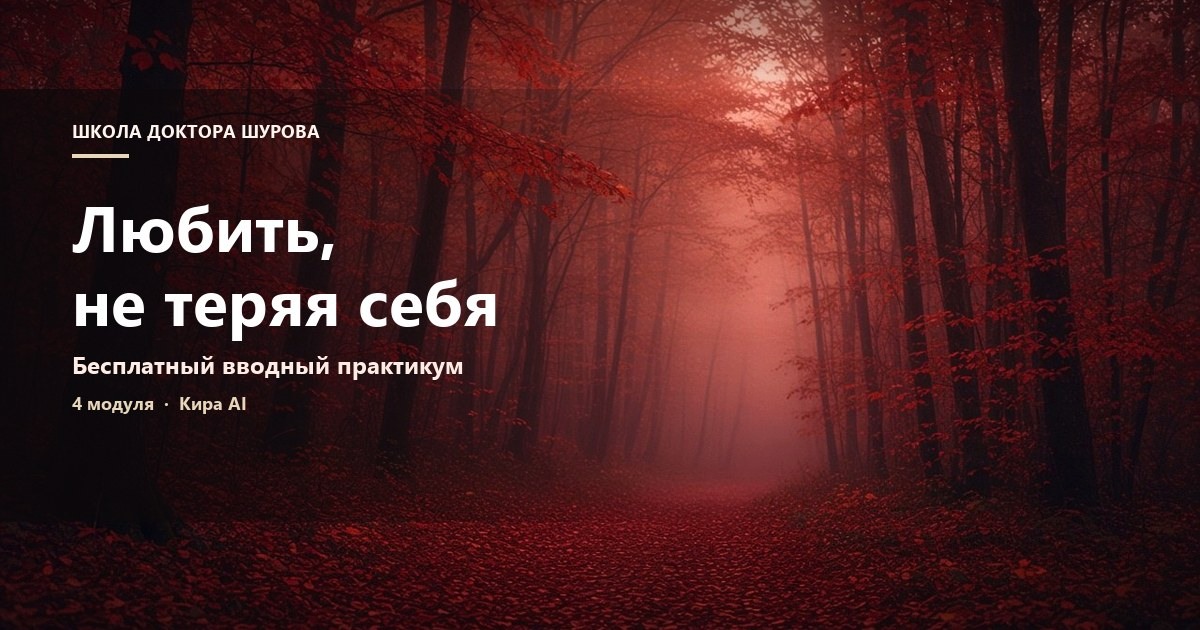
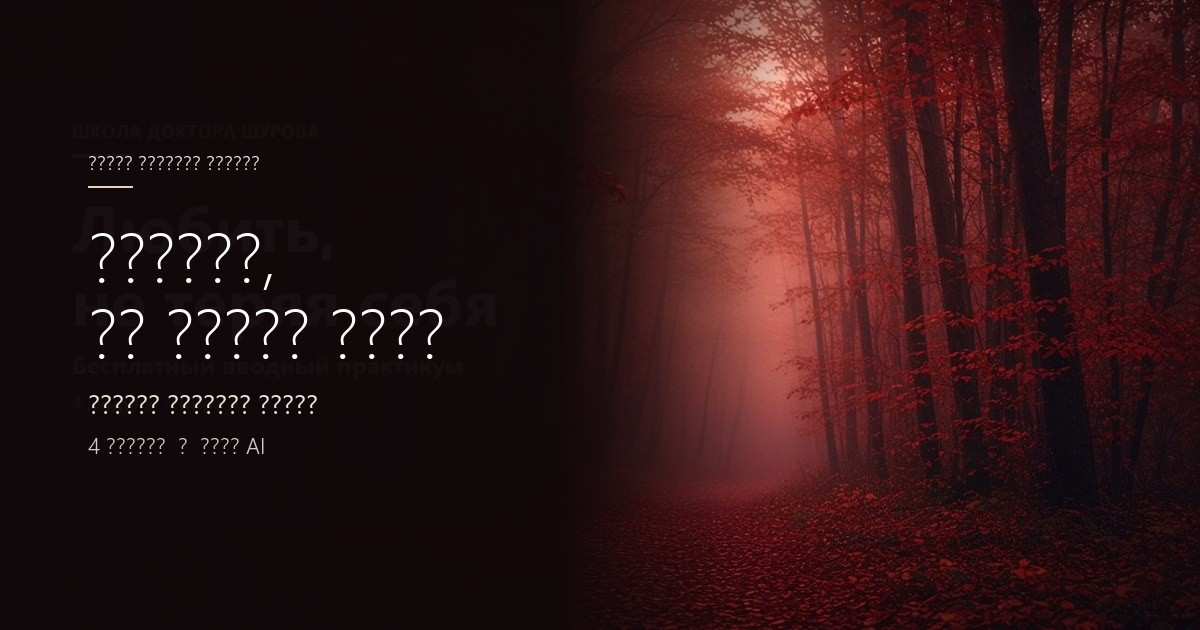
Drop the free-practicum line from the share preview card

diff --git a/index.html b/index.html
@@ -12,24 +12,24 @@
   <meta name="apple-mobile-web-app-status-bar-style" content="default" />
   <meta name="apple-mobile-web-app-title" content="Школа Шурова" />
   <title>Школа доктора Шурова. Образовательная платформа</title>
-  <meta name="description" content="Образовательная платформа курса доктора Шурова: четыре модуля, интерактивное тестирование, анкеты и AI-тьютор Кира AI." />
+  <meta name="description" content="Личный кабинет курса «Любить, не теряя себя»: четыре модуля, Кира AI и разбор домашних заданий." />
   <meta property="og:type" content="website" />
   <meta property="og:locale" content="ru_RU" />
   <meta property="og:site_name" content="Школа доктора Шурова" />
   <meta property="og:title" content="Любить, не теряя себя. Школа доктора Шурова" />
-  <meta property="og:description" content="Четыре модуля клинической программы по созависимости. Кира AI, тестирование и личный кабинет." />
+  <meta property="og:description" content="Личный кабинет курса. Четыре модуля, Кира AI и разбор домашних заданий." />
   <meta property="og:url" content="https://doctorshurov.ru/" />
-  <meta property="og:image" content="https://doctorshurov.ru/og.jpg?v=1" />
-  <meta property="og:image:secure_url" content="https://doctorshurov.ru/og.jpg?v=1" />
+  <meta property="og:image" content="https://doctorshurov.ru/og.jpg?v=2" />
+  <meta property="og:image:secure_url" content="https://doctorshurov.ru/og.jpg?v=2" />
   <meta property="og:image:type" content="image/jpeg" />
   <meta property="og:image:width" content="1200" />
   <meta property="og:image:height" content="630" />
   <meta property="og:image:alt" content="Курс «Любить, не теряя себя». Школа доктора Шурова" />
   <meta name="twitter:card" content="summary_large_image" />
   <meta name="twitter:title" content="Любить, не теряя себя. Школа доктора Шурова" />
-  <meta name="twitter:description" content="Четыре модуля клинической программы по созависимости. Кира AI и личный кабинет." />
-  <meta name="twitter:image" content="https://doctorshurov.ru/og.jpg?v=1" />
-  <link rel="image_src" href="https://doctorshurov.ru/og.jpg?v=1" />
+  <meta name="twitter:description" content="Личный кабинет курса. Четыре модуля, Кира AI и разбор домашних заданий." />
+  <meta name="twitter:image" content="https://doctorshurov.ru/og.jpg?v=2" />
+  <link rel="image_src" href="https://doctorshurov.ru/og.jpg?v=2" />
   <link rel="preconnect" href="https://fonts.googleapis.com" />
   <link rel="preconnect" href="https://fonts.gstatic.com" crossorigin />
   <script>
@@ -105,6 +105,6 @@
     <button type="button" id="cookieOk">Ok</button>
   </div>
   <script src="course.js?v=21"></script>
-  <script src="app.js?v=79"></script>
+  <script src="app.js?v=80"></script>
 </body>
 </html>

diff --git a/course.js b/course.js
@@ -19,8 +19,8 @@ window.COURSE = {
       hidden: true,
       kind: "intro",
       title: "Понятие созависимости",
-      blurb: "Бесплатный вводный практикум. С чем работаем, как это выглядит в жизни и что важно именно для вас.",
-      label: "бесплатно",
+      blurb: "Стартовый блок кабинета. С чем работаем, как это выглядит в жизни и что важно именно для вас.",
+      label: "старт",
       time: "около 40 минут",
       goals: [
         "Понять, что мы называем созависимостью в этом курсе.",

diff --git a/app.js b/app.js
@@ -3220,7 +3220,7 @@ function bindPwa() {
   }
 
   if ("serviceWorker" in navigator && location.protocol !== "file:") {
-    navigator.serviceWorker.register("/sw.js?v=59").catch(() => {});
+    navigator.serviceWorker.register("/sw.js?v=60").catch(() => {});
     if (!window.SE_SW_RELOAD) {
       window.SE_SW_RELOAD = true;
       navigator.serviceWorker.addEventListener("controllerchange", () => location.reload());

diff --git a/sw.js b/sw.js
@@ -1,9 +1,9 @@
-const CACHE = "se-cabinet-v59";
+const CACHE = "se-cabinet-v60";
 const CORE = [
   "./",
   "index.html",
   "styles.css?v=73",
-  "app.js?v=79",
+  "app.js?v=80",
   "course.js?v=21",
   "config.js?v=7",
   "manifest.webmanifest",
